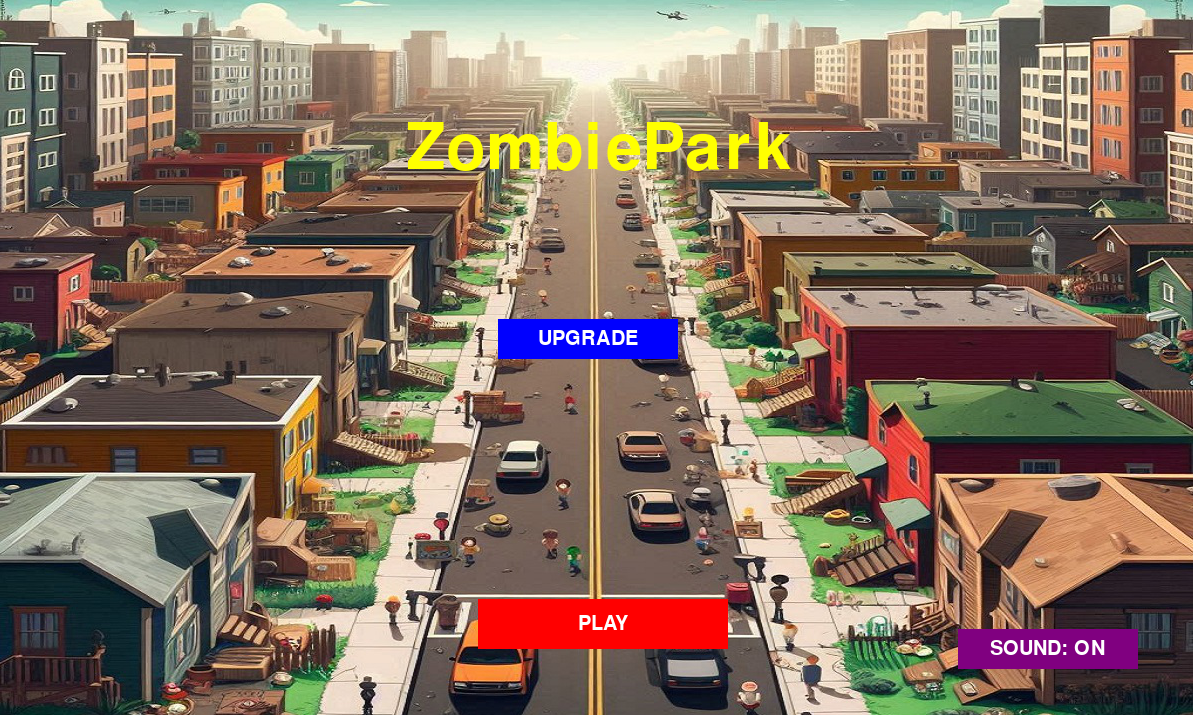
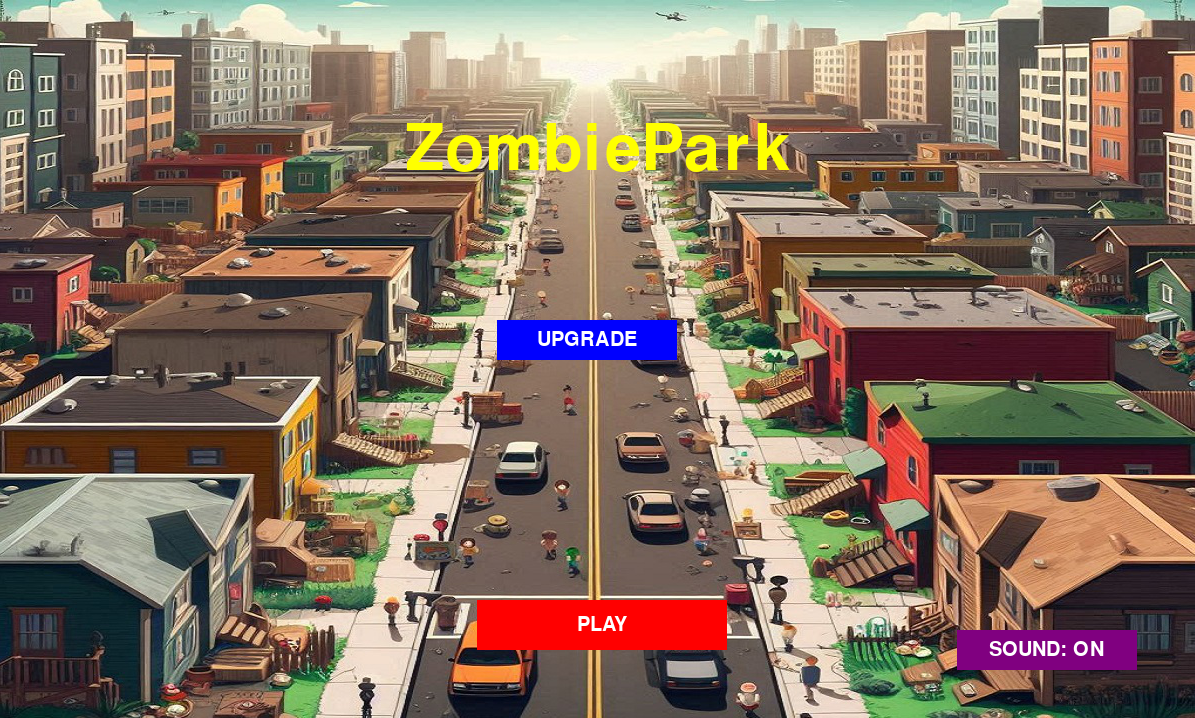
correção na imagem do jogo no readme

diff --git a/README.md b/README.md
@@ -1,6 +1,6 @@
 # 🧟♂ ZombiePark
 
-![Screenshot do jogo](screenshot.png)
+![Screenshot do jogo](Screenshot.png)
 
 **ZombiePark** é um jogo estilo _platformer_ feito com **Python** usando **PgZero**, onde o jogador enfrenta ondas de zumbis em uma cidade . O jogo conta com upgrades, loja, animações, música e sistema de pontuação.
 
